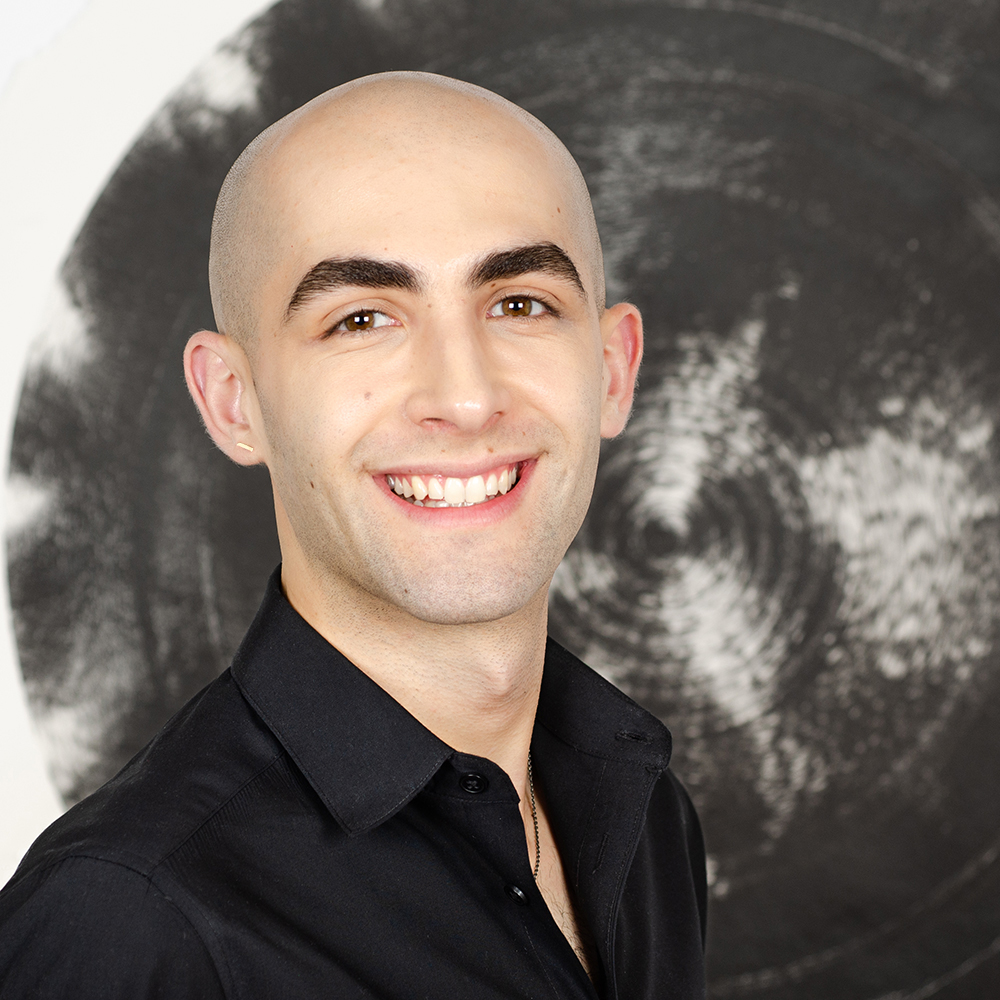
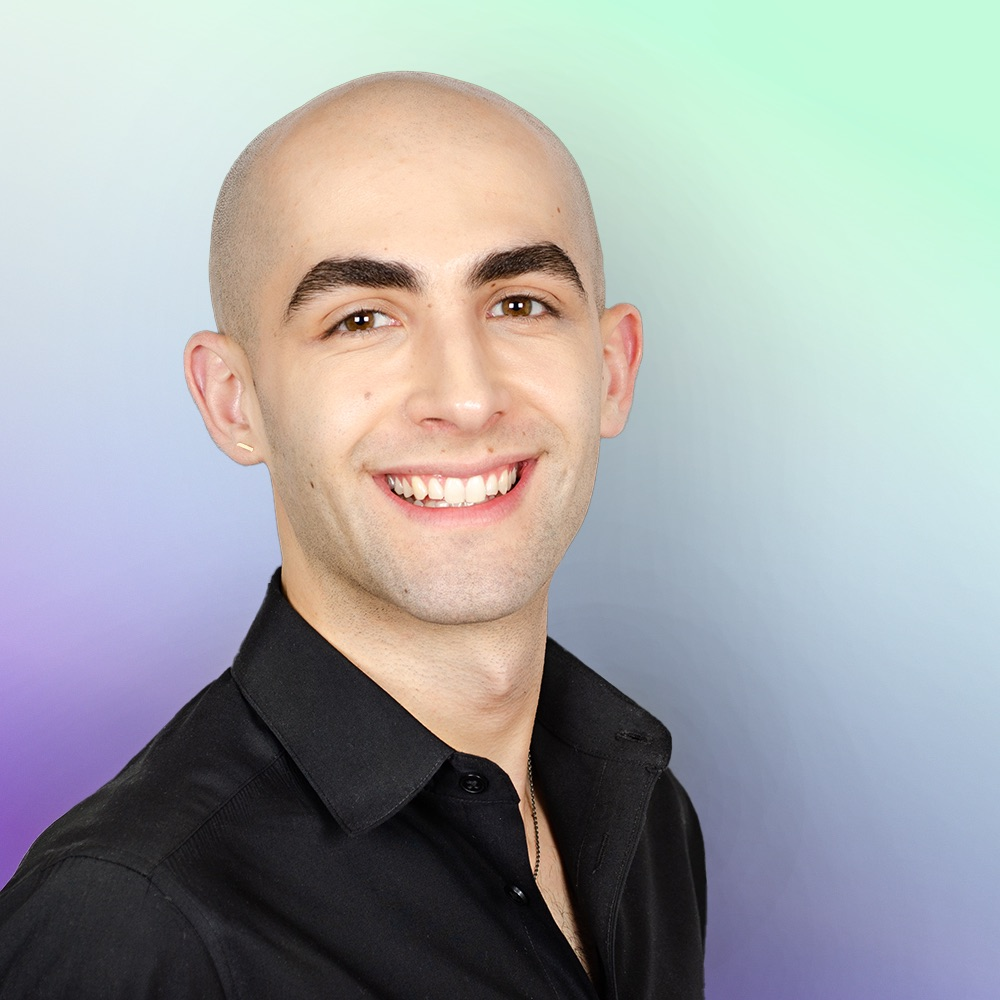
Add Cattleya

diff --git a/cattleya/index.html b/cattleya/index.html
@@ -1,0 +1,44 @@
+<!-- Should I add style="margin:0; padding:0" to all? -->
+<!DOCTYPE html>
+<html style="margin:0; padding:0">
+<head style="margin:0; padding:0">  
+
+	<!-- Global site tag (gtag.js) - Google Analytics -->
+	<script async src="https://www.googletagmanager.com/gtag/js?id=UA-127165215-1"></script>
+	<script>
+		window.dataLayer = window.dataLayer || [];
+		function gtag(){dataLayer.push(arguments);}
+		gtag('js', new Date());
+
+		gtag('config', 'UA-127165215-1');
+	</script>
+
+	<link rel="icon" href="../_assets/site/favicon.png" type="image/png" sizes="32x32">
+
+	<meta charset="UTF-8">
+	<meta name="viewport" content="width=device-width, initial-scale=1.0">
+
+	<!-- load scripts -->
+	<link rel="stylesheet" href="../_lib/jquery-ui.css">
+	<script src="../_lib/jquery-3.3.1.js"></script>
+	<script src="../_lib/jquery-ui.js"></script>
+
+	<script src="../_scripts/utils.js"></script>
+	<script src="../_scripts/layout.js"></script>
+	<script src="../_scripts/params.js"></script>
+	<script src="../_scripts/encrypt.js"></script>
+	<script src="../_scripts/script.js"></script>
+
+</head>
+<body style="margin:0; padding:0" >
+
+	<!-- <img data-src='assets/000.jpg' class='async'> -->
+
+	<!-- <a href="http://jquery.com/">jQuery</a> -->
+
+	<!-- create the main canvas -->
+	<!-- <canvas id="canvas" style="display:inline; width:100%; height:1000">
+		Please use Chrome or Firefox to view.
+	</canvas> -->
+
+</body>
